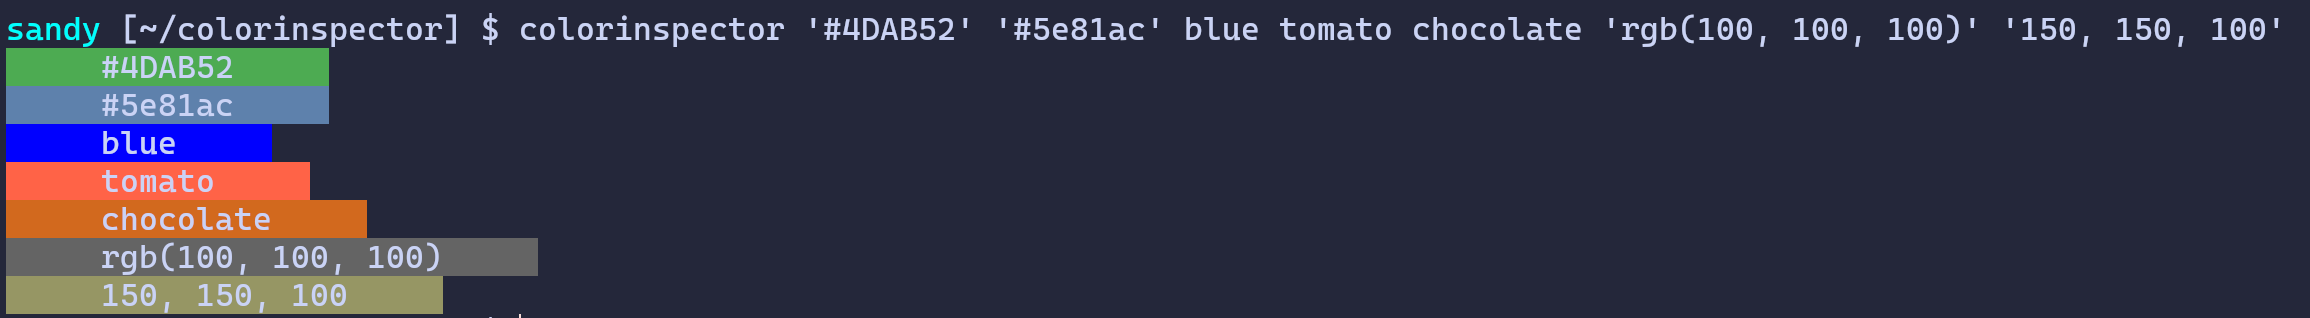
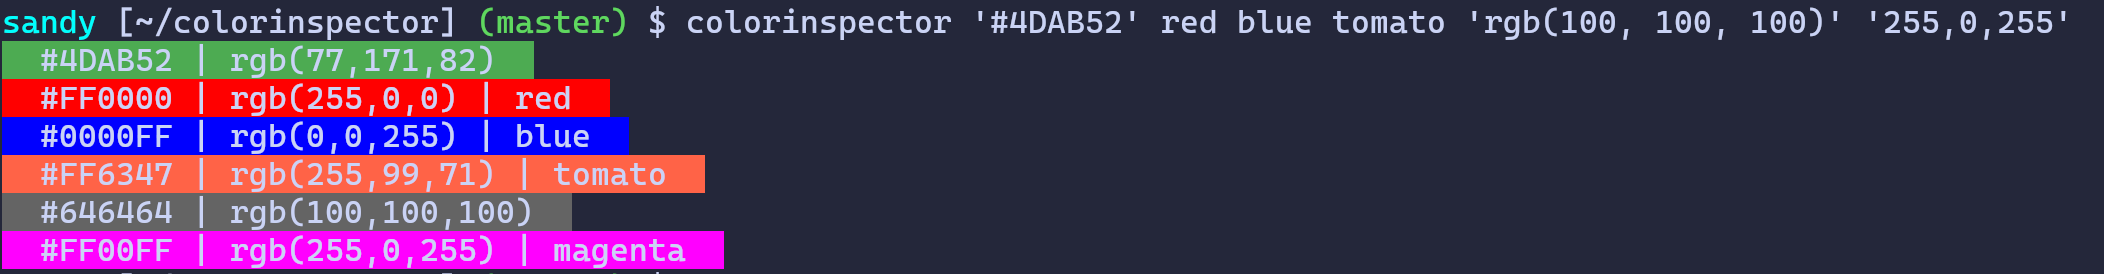
add all color formats

Changed region(s): [[0.0, 0.0292, 0.9886, 0.9927]]

diff --git a/colorinspector.go b/colorinspector.go
@@ -242,12 +242,31 @@ func parseColor(color string) (RGB, error) {
 	return RGB{}, fmt.Errorf("unsupported color format: %s", color)
 }
 
-func printColorBlock(color string, rgb RGB) {
-	bgColor := fmt.Sprintf("\033[48;2;%d;%d;%dm", rgb.R, rgb.G, rgb.B)
-	reset := "\033[0m"
+func findColorName(rgb RGB) string {
+    for name := range htmlColors {
+        if rgb == htmlColors[name] {
+            return name
+        }
+    }
+    return ""
+}
 
-	padding := "     "
-	fmt.Printf("%s%s%s%s%s\n", bgColor, padding, color, padding, reset)
+func printColorBlock(rgb RGB) {
+    bgColor := fmt.Sprintf("\033[48;2;%d;%d;%dm", rgb.R, rgb.G, rgb.B)
+    reset := "\033[0m"
+    padding := "  "
+
+    hexColor := fmt.Sprintf("#%02X%02X%02X", rgb.R, rgb.G, rgb.B)
+    rgbStr := fmt.Sprintf("rgb(%d,%d,%d)", rgb.R, rgb.G, rgb.B)
+    colorName := findColorName(rgb)
+
+    formats := []string{hexColor, rgbStr}
+    if colorName != "" {
+        formats = append(formats, colorName)
+    }
+    allFormats := strings.Join(formats, " | ")
+
+    fmt.Printf("%s%s%s%s%s\n", bgColor, padding, allFormats, padding, reset)
 }
 
 func main() {
@@ -266,6 +285,6 @@ func main() {
 			fmt.Printf("\033[31mError: %v\033[0m\n", err)
 			continue
 		}
-		printColorBlock(colorArg, rgb)
+		printColorBlock(rgb)
 	}
 }

diff --git a/README.md b/README.md
@@ -1,6 +1,7 @@
 # TUI Color inspector
 
-A simple TUI color inspector that prints out the colors that you pass as arguments, colored with the color itself.
+A simple TUI color inspector that prints out the colors that you pass as arguments, in all the formats, colored with the
+color itself.
 
 Supports all HTML colors, hexadecimal, and RGB.
 
@@ -21,4 +22,4 @@ Supported formats:
 
 ## Build
 
-`go build colorinspector.go`.
+`go build colorinspector.go`
